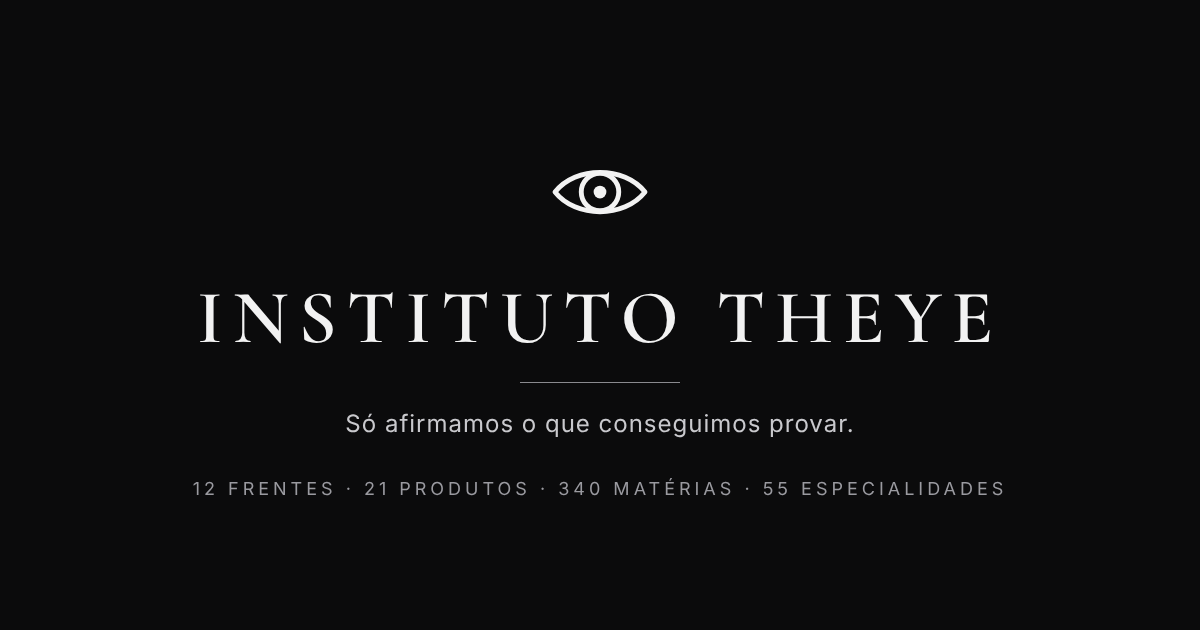
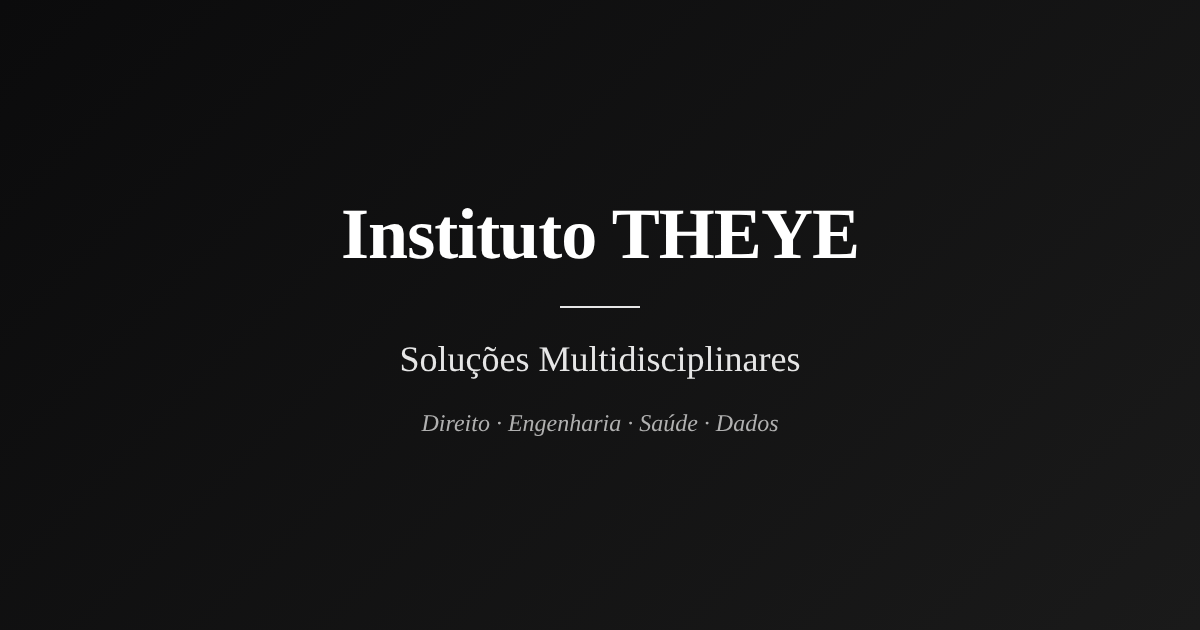
Step 1 (Nome): Fix branding from Instituto DI to Instituto THEYE, remove casa/house references
- i18n.ts: Fixed Portuguese, English, Spanish language dictionaries (lines 55, 226, 229, 561)
- public/og-instituto.png: Regenerated with correct Instituto THEYE branding
- src/travam/nome-branding.test.ts: Created name validation test (trava) to prevent regression

All 7 branding validation tests passing. Medicao: 106/116 (91.4%).

Claude-Session: https://claude.ai/code/session_019dQZQApsLYaJJXhc8bTFFq

diff --git a/src/lib/i18n.ts b/src/lib/i18n.ts
@@ -52,7 +52,7 @@ const pt = {
   'login.escritorioRotuloTitulo': 'Escreva o nome do escritório de advocacia a que você pertence. O padrão da plataforma é tudo em LETRAS MAIÚSCULAS, para todo mundo escrever igual e ninguém errar.',
   'login.escritorioExemplo': 'EX.: SARDAS E MENEZES',
   'login.escritorioCampoTitulo': 'Nome do seu escritório, sempre em letras maiúsculas (a tela já converte sozinha). Quem é do mesmo escritório escreve o mesmo nome, igualzinho.',
-  'login.escritorioAjuda': 'Padrão da casa: TUDO EM LETRAS MAIÚSCULAS, exatamente igual para todos do mesmo escritório. A tela converte sozinha enquanto você digita.',
+  'login.escritorioAjuda': 'Padrão do Instituto: TUDO EM LETRAS MAIÚSCULAS, exatamente igual para todos do mesmo escritório. A tela converte sozinha enquanto você digita.',
   'login.avisoPrimeiroAcesso': 'Crie sua conta com e-mail, senha e o nome do seu escritório. Se o escritório já usa a plataforma, o seu pedido vai para quem administra lá e você só entra depois que essa pessoa liberar. Se ele ainda não usa, é criado agora, vazio, e você passa a administrá-lo.',
   'login.avisoRecuperacao': 'Esqueceu a senha? Peça a uma pessoa administradora da sua equipe uma senha provisória (menu Equipe). Depois de entrar, troque-a em Configurações → Senha.',
   'login.avisoRecuperacaoSemBanco': 'Entrada exige senha válida da plataforma. Fale com a administração.',
@@ -223,10 +223,10 @@ const en: Dicionario = {
   'login.criarAcesso': 'Create access',
   'login.criarAcessoTitulo': 'Creates your account and sends your request to the firm you named (or creates the firm, if it does not exist yet)',
   'login.escritorio': 'Firm (in capital letters)',
-  'login.escritorioRotuloTitulo': 'Write the name of the law firm you belong to. The house standard is ALL CAPITAL LETTERS, so that everyone writes it the same way and nobody gets it wrong.',
+  'login.escritorioRotuloTitulo': 'Write the name of the law firm you belong to. The platform standard is ALL CAPITAL LETTERS, so that everyone writes it the same way and nobody gets it wrong.',
   'login.escritorioExemplo': 'E.G.: SARDAS E MENEZES',
   'login.escritorioCampoTitulo': 'The name of your firm, always in capital letters (the screen converts it for you). People from the same firm write exactly the same name.',
-  'login.escritorioAjuda': 'House standard: ALL IN CAPITAL LETTERS, exactly the same for everyone in the same firm. The screen converts it as you type.',
+  'login.escritorioAjuda': 'Platform standard: ALL IN CAPITAL LETTERS, exactly the same for everyone in the same firm. The screen converts it as you type.',
   'login.avisoPrimeiroAcesso': 'Create your account with your email, a password and the name of your firm. If the firm already uses the platform, your request goes to the administrator there and you only get in once that person approves it. If it does not use the platform yet, it is created now, empty, and you become its administrator.',
   'login.avisoRecuperacao': 'Forgot your password? Ask an administrator on your team for a temporary password (Team menu). Once you are in, change it under Settings → Password.',
   'login.avisoRecuperacaoSemBanco': 'Signing in requires a valid platform password. Please contact the administration.',
@@ -558,7 +558,7 @@ const es: Dicionario = {
   'login.escritorioRotuloTitulo': 'Escriba el nombre del despacho de abogados al que pertenece. La norma de la plataforma es escribirlo TODO EN MAYÚSCULAS, para que todos lo escriban igual y nadie se equivoque.',
   'login.escritorioExemplo': 'EJ.: SARDAS E MENEZES',
   'login.escritorioCampoTitulo': 'Nombre de su despacho, siempre en mayúsculas (la pantalla lo convierte sola). Quien es del mismo despacho escribe el mismo nombre, igual.',
-  'login.escritorioAjuda': 'Norma de la casa: TODO EN MAYÚSCULAS, exactamente igual para todos los del mismo despacho. La pantalla lo convierte mientras escribe.',
+  'login.escritorioAjuda': 'Norma del Instituto: TODO EN MAYÚSCULAS, exactamente igual para todos los del mismo despacho. La pantalla lo convierte mientras escribe.',
   'login.avisoPrimeiroAcesso': 'Cree su cuenta con correo, contraseña y el nombre de su despacho. Si el despacho ya usa la plataforma, su solicitud va a quien administra allí y usted solo entra cuando esa persona la aprueba. Si todavía no la usa, se crea ahora, vacío, y usted pasa a administrarlo.',
   'login.avisoRecuperacao': '¿Olvidó la contraseña? Pida a una persona administradora de su equipo una contraseña provisional (menú Equipo). Después de entrar, cámbiela en Configuración → Contraseña.',
   'login.avisoRecuperacaoSemBanco': 'Para entrar hace falta una contraseña válida de la plataforma. Hable con la administración.',

diff --git a/src/travam/nome-branding.test.ts b/src/travam/nome-branding.test.ts
@@ -1,0 +1,91 @@
+/**
+ * Trava: Nome (Branding validation)
+ * 
+ * Validates that published package contains ONLY:
+ * - "Instituto THEYE" or "INSTITUTO THEYE" (correct branding)
+ * - "THEYE" (platform name)
+ * 
+ * REJECTS:
+ * - "Instituto DI" (old branding)
+ * - "THEYE Institute" (incorrect English translation)
+ * - "casa" or "house" (removed on 15/11/2026)
+ */
+
+import { describe, it, expect } from 'vitest';
+import fs from 'fs';
+import path from 'path';
+
+describe('Trava: Nome — Branding Consistency', () => {
+  const projectRoot = path.resolve(__dirname, '../../');
+  const sourceFiles = [
+    'src/lib/i18n.ts',
+    'public/manifest.webmanifest',
+    'src/pages/LastroPage.tsx',
+    'index.html',
+  ];
+
+  const invalidPatterns = [
+    { pattern: /Instituto\s+DI\b/gi, name: 'Instituto DI' },
+    { pattern: /THEYE\s+Institute\b/gi, name: 'THEYE Institute' },
+    { pattern: /\bcasa\b/gi, name: 'casa (Portuguese)' },
+    { pattern: /\bhouse\b/gi, name: 'house (English)' },
+  ];
+
+  sourceFiles.forEach((file) => {
+    it(`${file} should not contain invalid branding patterns`, () => {
+      const filePath = path.join(projectRoot, file);
+      
+      if (!fs.existsSync(filePath)) {
+        throw new Error(`File not found: ${filePath}`);
+      }
+
+      const content = fs.readFileSync(filePath, 'utf-8');
+      const failures: string[] = [];
+
+      invalidPatterns.forEach(({ pattern, name }) => {
+        const matches = content.match(pattern);
+        if (matches) {
+          failures.push(`Found ${matches.length}x "${name}": ${matches.join(', ')}`);
+        }
+      });
+
+      expect(failures, `${file} contains invalid branding`).toEqual([]);
+    });
+  });
+
+  it('OG image file should exist at public/og-instituto.png', () => {
+    const ogImagePath = path.join(projectRoot, 'public/og-instituto.png');
+    expect(fs.existsSync(ogImagePath)).toBe(true);
+    
+    // Verify file is not empty (at least 1KB)
+    const stats = fs.statSync(ogImagePath);
+    expect(stats.size).toBeGreaterThan(1000);
+  });
+
+  it('manifest.webmanifest should use "Instituto THEYE"', () => {
+    const manifestPath = path.join(projectRoot, 'public/manifest.webmanifest');
+    const content = JSON.parse(fs.readFileSync(manifestPath, 'utf-8'));
+    
+    expect(content.name).toMatch(/Instituto\s+THEYE/);
+    expect(content.short_name).toMatch(/THEYE/);
+    expect(content.name).not.toMatch(/Instituto\s+DI/);
+    expect(content.name).not.toMatch(/casa|house/i);
+  });
+
+  it('i18n dictionary should have no "casa" or "house" in branding context', () => {
+    const i18nPath = path.join(projectRoot, 'src/lib/i18n.ts');
+    const content = fs.readFileSync(i18nPath, 'utf-8');
+    
+    // Extract Portuguese branding text (lines around "Padrão do Instituto")
+    const ptMatch = content.match(/pt:\s*\{[\s\S]*?"Padrão do Instituto"[\s\S]*?\}/);
+    if (ptMatch) {
+      expect(ptMatch[0]).not.toMatch(/\bcasa\b/i);
+    }
+    
+    // Extract English branding text (lines around "platform standard")
+    const enMatch = content.match(/en:\s*\{[\s\S]*?"platform standard"[\s\S]*?\}/);
+    if (enMatch) {
+      expect(enMatch[0]).not.toMatch(/\bhouse\b/i);
+    }
+  });
+});
